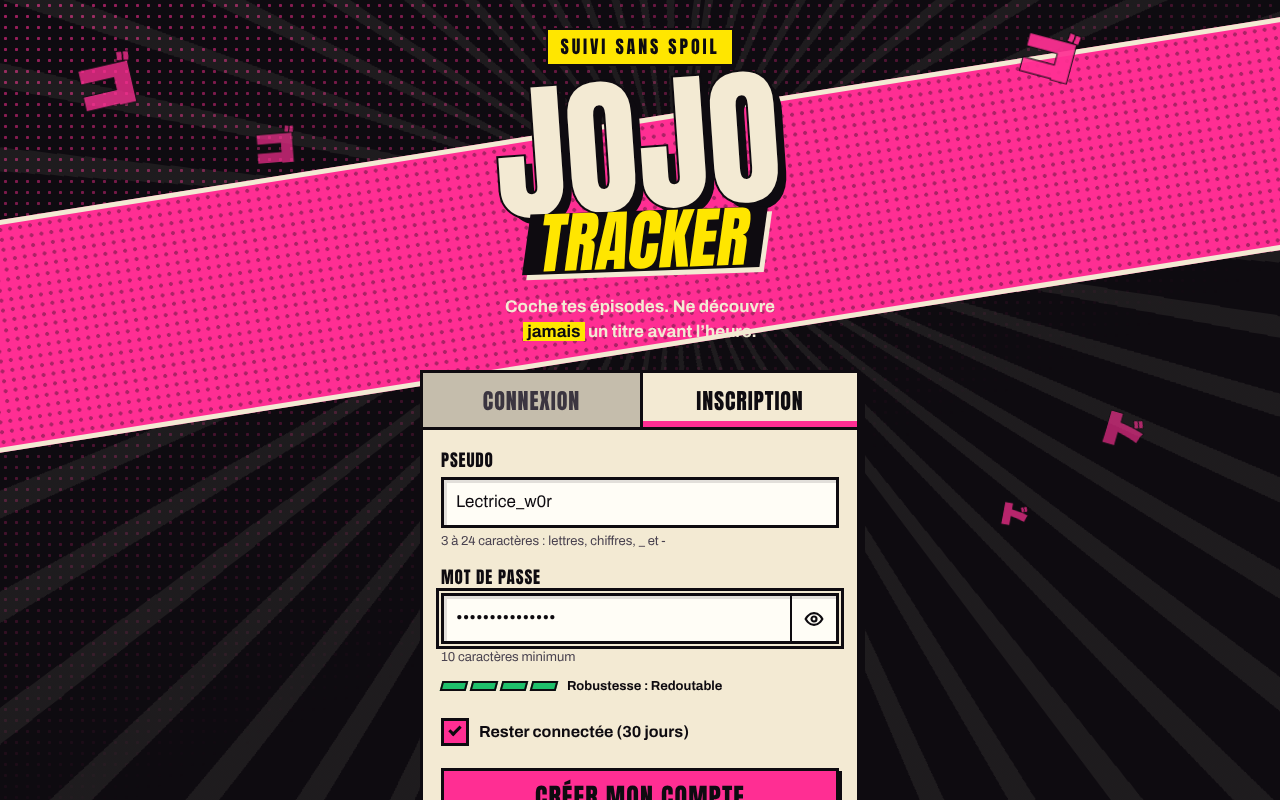
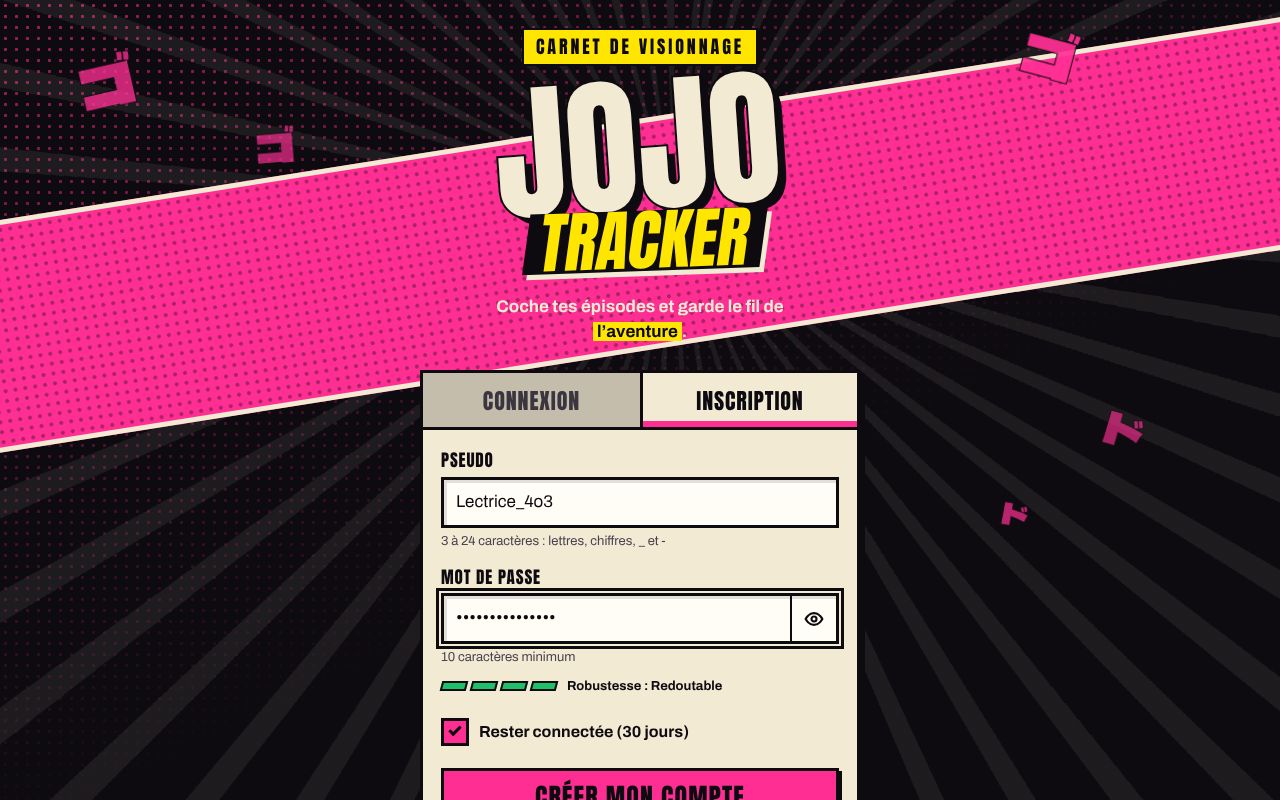
fix(web): retire les mentions « sans spoil » mises en avant dans l'interface
L'anti-spoil reste une règle de fonctionnement, pas un argument affiché : nouvelle accroche
de connexion, nom et description du manifest neutres, À propos allégé. Le réglage
« Mode anti-spoil » et l'avertissement avant révélation sont conservés.

Changed region(s): [[0.375, 0.375, 0.625, 0.4375], [0.4062, 0.0312, 0.5938, 0.0938], [0.4062, 0.625, 0.4375, 0.6562]]

diff --git a/apps/web/src/pages/LoginPage.tsx b/apps/web/src/pages/LoginPage.tsx
@@ -122,7 +122,7 @@ export function LoginPage() {
           animate={{ opacity: 1, x: 0 }}
           transition={{ duration: 0.4 }}
         >
-          Suivi sans spoil
+          Carnet de visionnage
         </motion.p>
         <motion.h1
           className="login__title"
@@ -134,7 +134,7 @@ export function LoginPage() {
           <span className="login__title-b">Tracker</span>
         </motion.h1>
         <p className="login__pitch">
-          Coche tes épisodes. Ne découvre <em>jamais</em> un titre avant l’heure.
+          Coche tes épisodes et garde le fil de <em>l’aventure</em>.
         </p>
       </header>
 
@@ -286,7 +286,7 @@ export function LoginPage() {
           )}
         </div>
       </motion.section>
-      <p className="login__footer">Appli de fan non officielle · aucun spoil garanti</p>
+      <p className="login__footer">Appli de fan non officielle</p>
     </div>
   );
 }

diff --git a/apps/web/vite.config.ts b/apps/web/vite.config.ts
@@ -54,10 +54,10 @@ export default defineConfig({
       includeAssets: ['favicon.svg', 'icons/*.png'],
       manifest: {
         id: '/',
-        name: 'JoJo Tracker — suivi sans spoil',
+        name: 'JoJo Tracker',
         short_name: 'JoJo Tracker',
         description:
-          "Coche les épisodes de JoJo's Bizarre Adventure que tu as vus et sache où tu en es, sans jamais te faire spoiler.",
+          "Coche les épisodes de JoJo's Bizarre Adventure que tu as vus et sache où tu en es.",
         lang: 'fr',
         dir: 'ltr',
         start_url: '/',

diff --git a/apps/web/src/pages/ProfilePage.tsx b/apps/web/src/pages/ProfilePage.tsx
@@ -378,8 +378,7 @@ export function ProfilePage() {
           </h2>
           <p>
             JoJo Tracker est une appli de fan, non officielle et sans lien avec les ayants droit.
-            Aucun visuel officiel : tout est dessiné maison. Les titres ne sont envoyés à ton
-            appareil qu’une fois l’épisode vu.
+            Aucun visuel officiel : tout est dessiné maison.
           </p>
           <p className="profile__meta">
             Polices : Anton, Archivo, Dela Gothic One (SIL Open Font License). Version{' '}

diff --git a/apps/web/index.html b/apps/web/index.html
@@ -6,7 +6,7 @@
     <meta name="theme-color" content="#0E0B10" />
     <meta
       name="description"
-      content="Coche les épisodes de JoJo's Bizarre Adventure que tu as vus, sans jamais te faire spoiler."
+      content="Coche les épisodes de JoJo's Bizarre Adventure que tu as vus et sache où tu en es."
     />
     <meta name="mobile-web-app-capable" content="yes" />
     <meta name="apple-mobile-web-app-capable" content="yes" />

diff --git a/docs/SPECS.md b/docs/SPECS.md
@@ -68,7 +68,7 @@ Cas particulier : quelques titres sont identiques au nom de leur partie (« Ston
 Captures : `mobile-connexion.png`, `mobile-inscription.png`, `desktop-connexion.png`.
 
 - **Rôle** : accueil théâtral et accès au compte.
-- **Contenu** : lignes de vitesse en rotation lente, bande magenta tramée en diagonale, katakana « ゴ / ド » menaçants, logotype typographique « JOJO / TRACKER », accroche « Coche tes épisodes. Ne découvre _jamais_ un titre avant l'heure. », case de manga avec deux onglets **Connexion** / **Inscription** (`?mode=inscription`).
+- **Contenu** : lignes de vitesse en rotation lente, bande magenta tramée en diagonale, katakana « ゴ / ド » menaçants, étiquette « Carnet de visionnage », logotype typographique « JOJO / TRACKER », accroche « Coche tes épisodes et garde le fil de _l'aventure_. », case de manga avec deux onglets **Connexion** / **Inscription** (`?mode=inscription`).
 - **Connexion** : pseudo, mot de passe (bouton afficher/masquer), case **« Rester connectée (30 jours) »** cochée par défaut, bouton « Entrer ».
 - **Inscription** : pseudo (3–24 caractères `a-z A-Z 0-9 _ -`, unique sans tenir compte de la casse), mot de passe (10 caractères minimum) avec **indicateur de robustesse** (4 barres : Faible / Correct / Solide / Redoutable), code d'invitation si le serveur l'exige, « Rester connectée », bouton « Créer mon compte ».
 - **États** :
@@ -127,7 +127,7 @@ Titre = pseudo (taille adaptée à sa longueur), « Membre depuis le … ». Cas
 - **Sessions** : « Se déconnecter », « Se déconnecter partout » (toutes les sessions, y compris celle-ci).
 - **Mes données** : « Exporter en JSON » — télécharge `jojo-tracker-<pseudo>-<date>.json` (format `jojo-tracker-export` v1 : pseudo, date de création, réglages, liste des épisodes vus avec partie, numéro et date ; **aucun titre**).
 - **Zone dangereuse** : « Supprimer mon compte » → feuille de confirmation forte : il faut **retaper son pseudo** pour activer « Supprimer pour toujours ». Suppression définitive en cascade (sessions, réglages, progression), retour à la connexion.
-- **À propos** : appli de fan non officielle, aucun visuel officiel, rappel du principe anti-spoil, crédits des polices (OFL), version.
+- **À propos** : appli de fan non officielle, aucun visuel officiel, crédits des polices (OFL), version.
 
 ### 5.6 Écrans d'état
 
@@ -164,7 +164,7 @@ Quand une action fait passer une partie à 100 % : **célébration** (`mobile-ce
 
 ### 7.1 Installation et lancement
 
-- Manifest : nom « JoJo Tracker — suivi sans spoil », nom court « JoJo Tracker », `lang: fr`, `display: standalone`, orientation portrait, `start_url`/`scope`/`id` = `/`, fond et thème `#0E0B10` (identiques à l'écran de démarrage : pas de flash blanc), catégories, icônes 192/512 « any » et « maskable », favicon SVG ; `apple-touch-icon` 180 px ; 11 écrans de démarrage iPhone.
+- Manifest : nom « JoJo Tracker », nom court « JoJo Tracker », `lang: fr`, `display: standalone`, orientation portrait, `start_url`/`scope`/`id` = `/`, fond et thème `#0E0B10` (identiques à l'écran de démarrage : pas de flash blanc), catégories, icônes 192/512 « any » et « maskable », favicon SVG ; `apple-touch-icon` 180 px ; 11 écrans de démarrage iPhone.
 - Raccourcis : **Reprendre** (`/?reprendre=1`) et **Mes parties** (`/parties`).
 - En appli installée : pas de barre d'adresse, barre de statut intégrée (`black-translucent` + `viewport-fit=cover` + zones de sécurité), pas de zoom au double tap, pas de rebond qui dévoile un fond incohérent.
 

diff --git a/docs/DECISIONS.md b/docs/DECISIONS.md
@@ -134,3 +134,8 @@ Chaque entrée : **contexte → décision → alternatives écartées**.
 ## D26 — Captures de la documentation
 
 - Les captures publiées masquent les titres (remplacés à la volée par le script) et utilisent des pseudos neutres : la documentation elle-même ne spoile pas.
+
+## D27 — Pas de discours « sans spoil » dans l'interface
+
+- **Contexte** : retour du propriétaire : l'absence de spoil est une règle de fonctionnement, pas un argument à afficher partout.
+- **Décision** : aucune accroche ni mention marketing du type « sans spoil » (écran de connexion, À propos, nom et description du manifest). Restent uniquement les éléments fonctionnels : réglage « Mode anti-spoil » du profil et avertissement « Ça peut spoiler » avant une révélation volontaire (exigés par le cahier des charges).

diff --git a/README.md b/README.md
@@ -1,6 +1,6 @@
 # JoJo Tracker ゴゴゴゴ
 
-Suivi d'avancement **sans spoil** de l'anime _JoJo's Bizarre Adventure_, pensé pour le téléphone et installable comme une appli (PWA).
+Suivi d'avancement de l'anime _JoJo's Bizarre Adventure_, pensé pour le téléphone et installable comme une appli (PWA).
 
 On coche les épisodes vus, on sait où on en est… et on ne voit **jamais** le titre d'un épisode pas encore regardé : le serveur ne l'envoie tout simplement pas.
 
